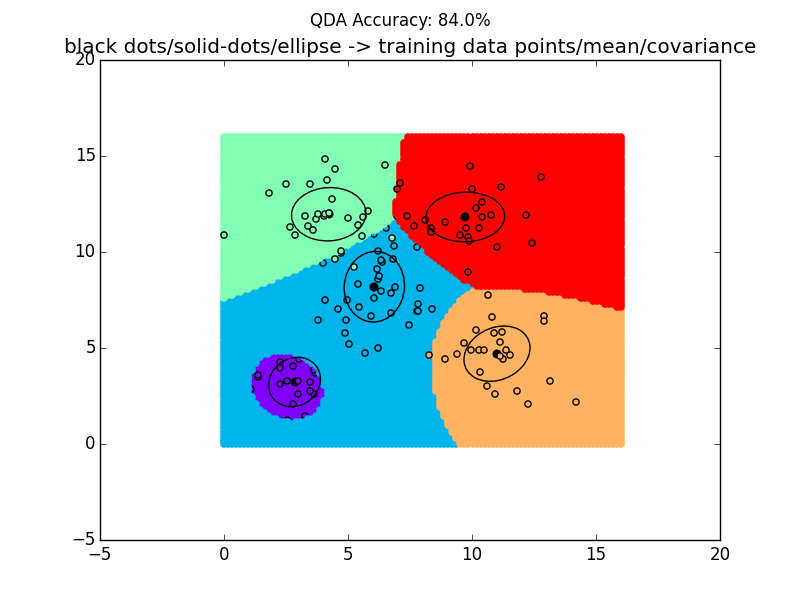
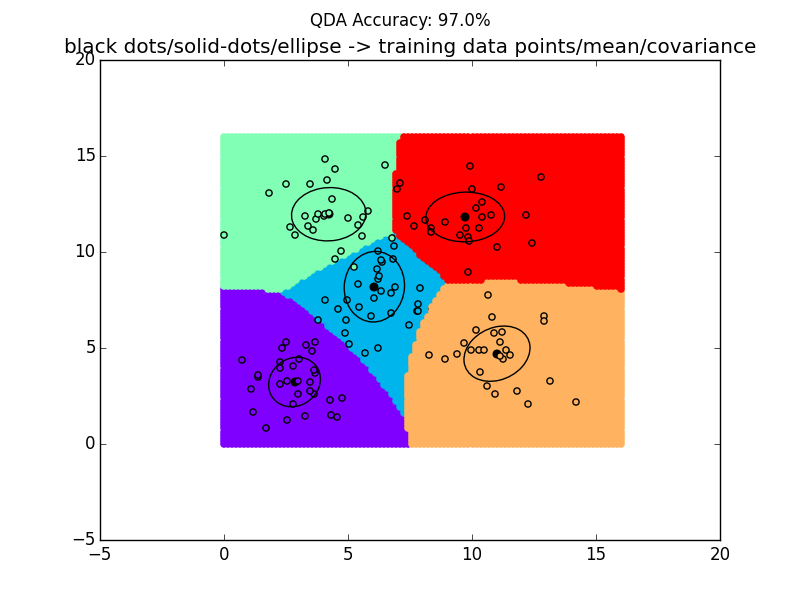
Removed bugs

Changed region(s): [[0.25, 0.36, 0.7812, 0.75], [0.4688, 0.24, 0.5, 0.33], [0.5312, 0.03, 0.5938, 0.06]]

diff --git a/gaussian_discriminators.py b/gaussian_discriminators.py
@@ -69,7 +69,7 @@ def ldaTest(means,covmat,Xtest,ytest):
     ydist = np.zeros((Xtest.shape[0],means.shape[1]))
     for i in range(means.shape[1]):
         ydist[:,i] = np.exp(-0.5*np.sum((Xtest - means[:,i])* 
-        np.dot(invcovmat, (Xtest - means[:,i]).T).T,1)/(np.sqrt(np.pi*2)*(covmatdet**2)))
+        np.dot(invcovmat, (Xtest - means[:,i]).T).T,1))/(np.sqrt(np.pi*2)*(covmatdet**2))
     ylabel = np.argmax(ydist,1)
     ylabel = ylabel + 1
     ytest = ytest.reshape(ytest.size)
@@ -91,12 +91,12 @@ def qdaTest(means,covmats,Xtest,ytest):
         invcovmat = linalg.inv(covmats[i])
         covmatdet = linalg.det(covmats[i])
         ydist[:,i] = np.exp(-0.5*np.sum((Xtest - means[:,i])* 
-        np.dot(invcovmat, (Xtest - means[:,i]).T).T,1)/(np.sqrt(np.pi*2)*(covmatdet**2)))
+        np.dot(invcovmat, (Xtest - means[:,i]).T).T,1))/(np.sqrt(np.pi*2)*(covmatdet**2))
     ylabel = np.argmax(ydist,1)
     ylabel = ylabel + 1
     ytest = ytest.reshape(ytest.size)
     acc = 100*np.mean(ylabel == ytest)
-    return acc, ylabel    
+    return acc, ylabel   
     #return acc
 
 def plot_data(data0, label0, title, subtitle, *args):
@@ -109,6 +109,7 @@ def plot_data(data0, label0, title, subtitle, *args):
         means, covmats = args
     elif (len(args) == 4):
         means, covmats, traindata, trainlabel = args
+        trainlabel = trainlabel.reshape(trainlabel.size)
     for i in range(1,6):
         cl = next(colors)
         plt.scatter(data0[(label0==i).reshape((label0==i).size),0],
@@ -126,8 +127,8 @@ def plot_data(data0, label0, title, subtitle, *args):
             #Add mean points
             plt.scatter(means[0,i-1], means[1,i-1],c='black',s=30);
             if (len(args) == 4):
-                plt.scatter(traindata[(trainlabel==i).reshape((trainlabel==i).size),0],
-                traindata[(trainlabel==i).reshape((trainlabel==i).size),1],color=cl,
+                plt.scatter(traindata[trainlabel==i,0],
+                traindata[trainlabel==i,1],color=cl,
                 edgecolor='black')
     fig.suptitle(title)
     ax.set_title(subtitle)
@@ -171,8 +172,8 @@ plot_data(grid,gridlabel,'QDA Accuracy: ' + str(acc) +'%',
 data0,label0)
 
 # Plot sample training data with QDA data
-#plot_data(data0,label0,'(QDA) Sample data 1 with class mean and covariances(1 SD)',
-#qda_means,qda_covmats)
+# plot_data(data0,label0,'(QDA) Sample data 1 with class mean and covariances(1 SD)',
+# qda_means,qda_covmats)
 
 # Load diabetes data
 dtdata = pickle.load(open('diabetes.pickle','rb'))
